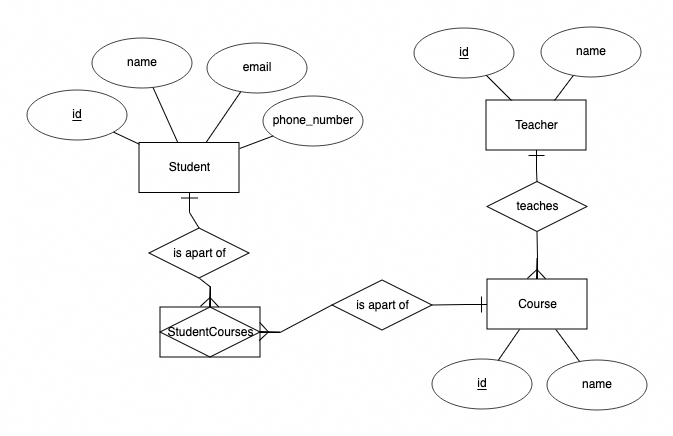
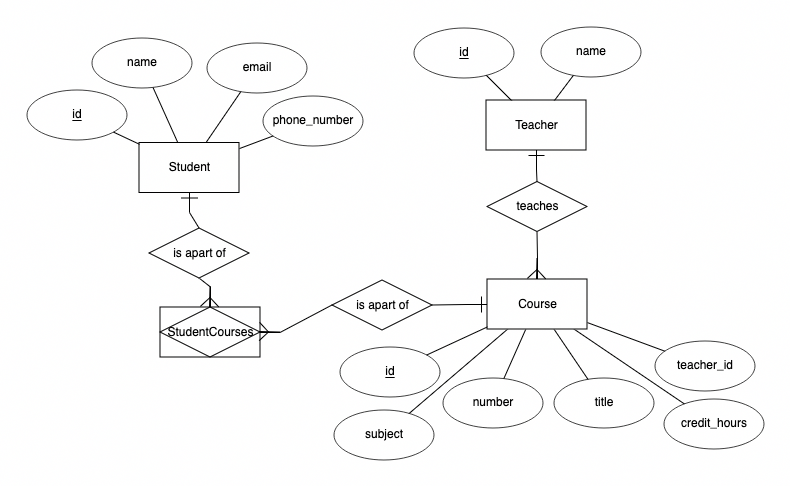
Fix: Updated ER diagram

diff --git a/README.md b/README.md
@@ -50,7 +50,7 @@
 ## Schema
 ![ER Diagram](https://github.com/harriszk/schoolboard/blob/main/src/main/resources/er_diagram.png?raw=true "ER Diagram")
 
-[JavaDocs link](https://github.com/harriszk/schoolboard/blob/main/JavaDocs/index.html)
+[JavaDocs link](JavaDocs/index.html)
 
 ## Available Endpoints
 
